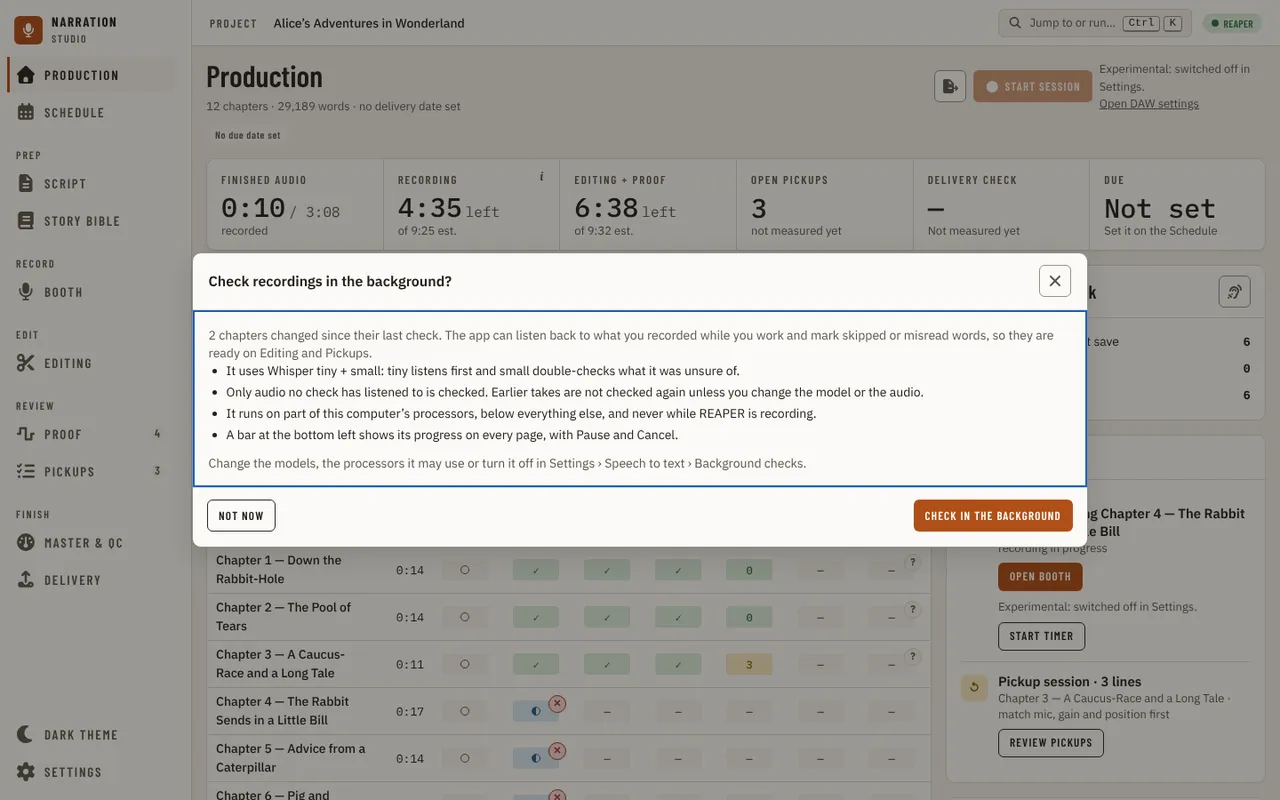
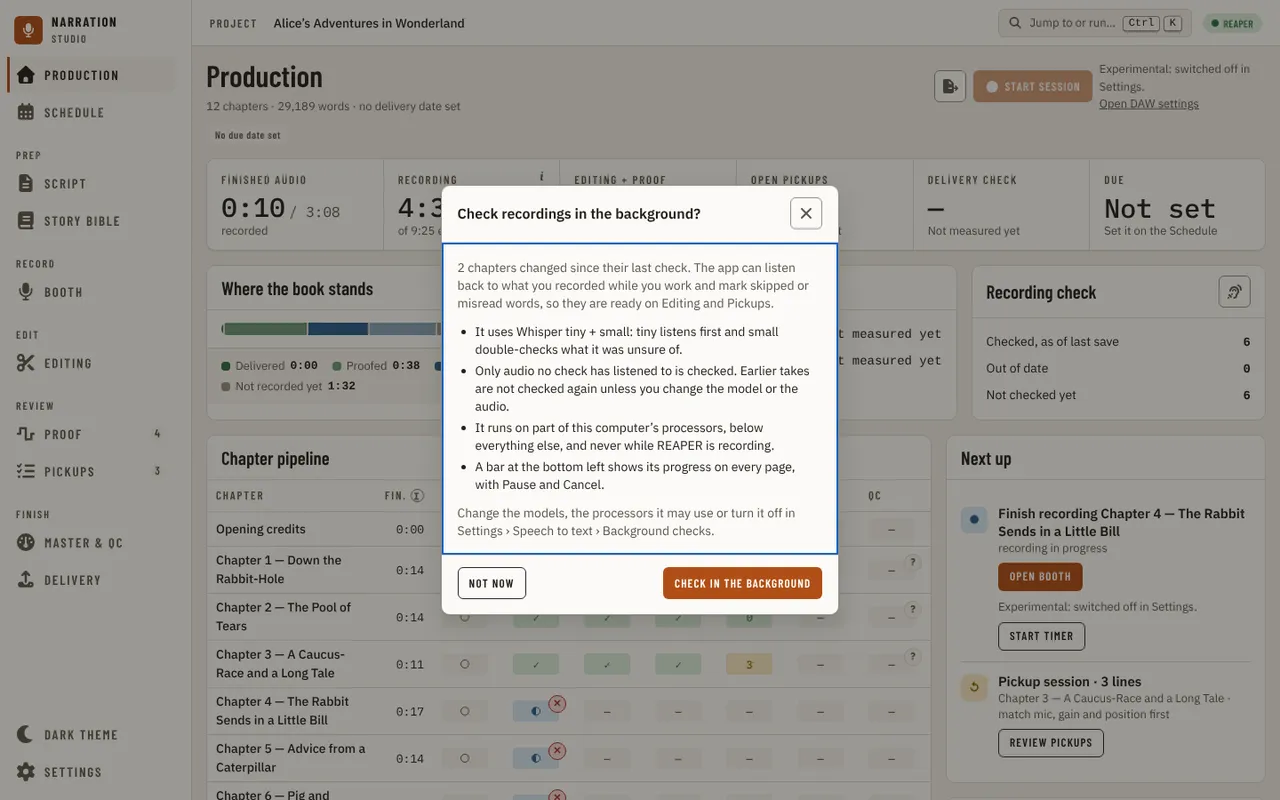
fix(ui): dialogs take a width from one scale, one inset and a wrapping action row (#2355)

Changed region(s): [[0.125, 0.2188, 0.875, 0.7812]]

diff --git a/src/studio/ui/src/components/primitives/Dialog.tsx b/src/studio/ui/src/components/primitives/Dialog.tsx
@@ -23,11 +23,15 @@ type DialogProps = {
   // false: Escape is ignored even though there is an `onClose`. For a dialog whose close would abort work in flight (a
   // running download): the header button and Cancel are the deliberate ways out, a stray key is not.
   escapeCloses?: boolean;
-  // 'default': capped at 70vw wide and 80dvh tall, sized to its content. 'full': fills the viewport with a
-  // fixed 1rem margin on every side and scrolls its body, for a surface that needs the whole window (the teleprompter
-  // reading modal). Modality (focus trap, Escape, initial focus,
-  // hidden siblings) is unchanged by size: both variants are the one shell docs/design/design-system.md#base-ui-wrappers describes.
-  size?: 'default' | 'full';
+  // The width, from one scale (DIALOG_WIDTHS), never wider than the window less 1rem a side, and at most 80dvh tall: 'confirm' (a question
+  // and its answers, the default for an alert), 'form' (a few fields, the default otherwise), 'palette' (the jump menu), 'wide' (a table
+  // or a list of rows with controls). 'full' fills the viewport with a fixed 1rem margin on every side and scrolls its body, for a surface
+  // that needs the whole window (the teleprompter reading modal). Modality (focus trap, Escape, initial focus, hidden siblings) is
+  // unchanged by size: every size is the one shell docs/design/design-system.md#base-ui-wrappers describes.
+  size?: DialogSize;
+  // 'top': the popup hangs 12vh from the top of the window instead of centring, so a list that grows or shrinks as the narrator types
+  // (the jump menu) does not move its own field. The default for `palette`.
+  placement?: 'center' | 'top';
   // Draws no header row and no Close button, for a surface whose first row is its own field (the jump menu, D98). The title
   // still names the dialog, visually hidden; Escape closes through `onClose` or `onEscape`. The body has no padding.
   headerless?: boolean;
@@ -41,8 +45,8 @@ type DialogProps = {
   dismissOnOutsidePress: boolean;
   // null when there is nothing to press (a running job that cannot be cancelled): no empty action row is drawn.
   actions: ReactNode;
-  // WorkDialog only ever shows one action at a time - 'between' would strand
-  // it on the left, so it opts into 'end' instead.
+  // 'between': the first action at the left (a Cancel or a secondary way out), the rest at the right; a lone action sits at the right
+  // either way. 'end': every action at the right.
   actionsAlign?: 'between' | 'end';
   // A region between the body and `actions` that never scrolls with it: the read-aloud dialog's
   // control bar, kept visible in every scroll position. Absent, most dialogs draw nothing here. Unlike `actions` it has no padding or alignment opinion of its own - a toolbar lays out its own row.
@@ -59,6 +63,20 @@ type DialogProps = {
   // `aria-describedby` points at, so an alert without a description is refused at the type level.
   | { variant: 'alert'; description: ReactNode }
 );
+
+export type DialogSize = 'confirm' | 'form' | 'palette' | 'wide' | 'full';
+
+// The width scale (alignment audit cause B: every dialog was 70vw, so a one-line confirm was 1,006 px wide at 1440 and 271 px at 390).
+// The popup is `w-full` inside a viewport padded 1rem a side, so a width also never exceeds the window less 2rem.
+export const DIALOG_WIDTHS: Record<Exclude<DialogSize, 'full'>, string> = {
+  confirm: 'max-w-[28rem]',
+  form: 'max-w-[36rem]',
+  palette: 'max-w-[40rem]',
+  wide: 'max-w-[56rem]',
+};
+
+// The one horizontal inset of the header, the body and the action row.
+const INSET = 'px-[var(--space-6)]';
 
 // An empty description (a job message that has not arrived yet) would leave `aria-describedby` pointing at nothing, and an
 // empty `actions` would draw a padded blank row under the body.
@@ -82,7 +100,8 @@ export function Dialog({
   escapeCloses = true,
   description,
   variant = 'dialog',
-  size = 'default',
+  size,
+  placement,
   headerless = false,
   bodyScroll = true,
   dismissOnOutsidePress,
@@ -100,6 +119,8 @@ export function Dialog({
   // What had focus when the dialog mounted: the button that opened it.
   const [opener] = useState(() => (document.activeElement instanceof HTMLElement ? document.activeElement : null));
   const dismiss = escapeCloses ? (onClose ?? onEscape) : undefined;
+  const width = size ?? (variant === 'alert' ? 'confirm' : 'form');
+  const top = (placement ?? (width === 'palette' ? 'top' : 'center')) === 'top';
 
   const initialFocus = () => {
     const focused = document.activeElement;
@@ -144,17 +165,19 @@ export function Dialog({
         {/* forceRender: Base UI leaves out the backdrop of a dialog opened inside another dialog or a SlideOver (a Drawer), which
             left the page undimmed behind a confirm opened from a panel (chapter-track-link-control/06 draws it dimmed). */}
         <Parts.Backdrop data-dialog-backdrop forceRender className="fixed inset-0 z-[var(--z-dialog)] bg-[var(--backdrop)]" />
-        <Parts.Viewport className="fixed inset-0 z-[var(--z-dialog)] flex items-center justify-center p-4">
+        <Parts.Viewport
+          className={`fixed inset-0 z-[var(--z-dialog)] flex justify-center p-4 ${top && width !== 'full' ? 'items-start pt-[12vh]' : 'items-center'}`}
+        >
           <Parts.Popup
             ref={popupRef}
             initialFocus={initialFocus}
             finalFocus={finalFocus}
             className={`flex w-full flex-col overflow-hidden rounded-[var(--radius-card)] border focus:outline-none ${
-              size === 'full' ? 'max-w-[calc(100vw-2rem)]' : 'max-w-[70vw]'
+              width === 'full' ? 'max-w-[calc(100vw-2rem)]' : DIALOG_WIDTHS[width]
             }`}
             style={{
-              height: size === 'full' ? 'calc(100dvh - 2rem)' : undefined,
-              maxHeight: size === 'full' ? 'calc(100dvh - 2rem)' : '80dvh',
+              height: width === 'full' ? 'calc(100dvh - 2rem)' : undefined,
+              maxHeight: width === 'full' ? 'calc(100dvh - 2rem)' : '80dvh',
               background: 'var(--surface)',
               borderColor: 'var(--line-strong)',
               boxShadow: 'var(--shadow-lg)',
@@ -164,7 +187,7 @@ export function Dialog({
             {headerless ? (
               <Parts.Title className="sr-only">{title}</Parts.Title>
             ) : (
-              <div className="flex min-h-[3.75rem] flex-none items-center justify-between gap-3 border-b border-[var(--border)] px-[1.1rem] py-[0.85rem]">
+              <div className={`flex min-h-[3.75rem] flex-none items-center justify-between gap-3 border-b border-[var(--border)] ${INSET} py-[0.85rem]`}>
                 <Parts.Title className="font-semibold">{title}</Parts.Title>
                 {onClose && (
                   <IconButton label="Close" onClick={onClose}>
@@ -177,10 +200,10 @@ export function Dialog({
             <div
               ref={bodyRef}
               tabIndex={bodyScroll ? 0 : undefined}
-              className={`min-h-0 flex-1 overflow-x-hidden ${bodyScroll ? 'overflow-y-auto' : 'flex flex-col overflow-y-hidden'} ${headerless ? '' : 'p-[1.1rem]'} break-words focus-visible:ring-2 focus-visible:ring-[var(--focus)] focus-visible:outline-none focus-visible:ring-inset`}
+              className={`min-h-0 flex-1 overflow-x-hidden ${bodyScroll ? 'overflow-y-auto' : 'flex flex-col overflow-y-hidden'} ${headerless ? '' : `${INSET} py-[var(--space-6)]`} break-words focus-visible:ring-2 focus-visible:ring-[var(--focus)] focus-visible:outline-none focus-visible:ring-inset`}
             >
               {hasContent(description) && (
-                <Parts.Description render={typeof description === 'string' ? <p /> : <div />} className="text-sm text-[var(--text-muted)]">
+                <Parts.Description render={typeof description === 'string' ? <p /> : <div />} className="mb-3 text-sm text-[var(--text-muted)] last:mb-0">
                   {description}
                 </Parts.Description>
               )}
@@ -195,8 +218,9 @@ export function Dialog({
               <div
                 data-dialog-actions
                 // The mocks' action row is 66 px under its divider (12 above a 38 px button, 16 below; the min-height counts the divider). Button is 32 px
-                // so the row keeps the mocks' height and centres the buttons in the 38 px band.
-                className={`flex min-h-[4.1875rem] flex-none items-center gap-2 border-t px-4 pt-3 pb-4 ${actionsAlign === 'between' ? 'justify-between' : 'justify-end'}`}
+                // so the row keeps the mocks' height and centres the buttons in the 38 px band. The actions wrap onto a second line rather than
+                // squeezing their labels, and keep to the right; 'between' pushes the first of several to the left.
+                className={`flex min-h-[4.1875rem] flex-none flex-wrap items-center justify-end gap-2 border-t ${INSET} pt-3 pb-4 ${actionsAlign === 'between' ? '[&>:first-child:not(:only-child)]:mr-auto' : ''}`}
                 style={{ borderColor: 'var(--border)' }}
               >
                 {actions}

diff --git a/src/studio/ui/src/components/primitives/Dialog.test.tsx b/src/studio/ui/src/components/primitives/Dialog.test.tsx
@@ -4,7 +4,7 @@ import userEvent from '@testing-library/user-event';
 import { useState } from 'react';
 import { afterEach, describe, expect, it, vi } from 'vitest';
 import { Button } from './Button';
-import { Dialog } from './Dialog';
+import { Dialog, DIALOG_WIDTHS } from './Dialog';
 import { Popover } from './Popover';
 import { SlideOver } from './SlideOver';
 import { tabInsideTrap } from './tabInsideTrap';
@@ -306,14 +306,15 @@ describe('Dialog is a real modal', () => {
 // `size="full"` fills the viewport with a margin and scrolls its
 // body, with no change to the modal contract that every other size shares.
 describe('Dialog size="full"', () => {
-  it('defaults to the capped, content-sized popup', async () => {
+  it('defaults to the form width, capped at 80dvh tall', async () => {
     render(
       <Dialog dismissOnOutsidePress={false} title="Add note" onClose={() => undefined} actions={<Button variant="primary">Save</Button>}>
         <p>Body</p>
       </Dialog>,
     );
     const dialog = await screen.findByRole('dialog', { name: 'Add note' });
-    expect(dialog.className).toContain('max-w-[70vw]');
+    expect(dialog.className).toContain(DIALOG_WIDTHS.form);
+    expect(dialog.className).not.toContain('70vw');
     expect(dialog.style.maxHeight).toBe('80dvh');
     expect(dialog.style.height).toBe('');
   });
@@ -445,5 +446,72 @@ describe('Dialog body scrolling', () => {
     expect(bodyOf().className).toContain('flex-col');
     expect(bodyOf().className).toContain('overflow-y-hidden');
     expect(bodyOf().hasAttribute('tabindex')).toBe(false);
+  });
+});
+
+// Alignment audit cause B: every dialog was 70vw wide whatever it held, footers had three layouts and sat 1.6 px outside the
+// body's edge, and the jump menu was centred so its field moved as the list changed.
+describe('Dialog widths and action row', () => {
+  it('sizes an alert as a confirm, and takes an explicit size from the scale', async () => {
+    render(
+      <Dialog dismissOnOutsidePress={false} variant="alert" title="Delete entry?" description="It cannot be undone." actions={<Button>Delete</Button>}>
+        {null}
+      </Dialog>,
+    );
+    expect((await screen.findByRole('alertdialog', { name: 'Delete entry?' })).className).toContain(DIALOG_WIDTHS.confirm);
+    cleanup();
+    render(
+      <Dialog dismissOnOutsidePress={false} title="Link chapters" size="wide" actions={null}>
+        <p>Table</p>
+      </Dialog>,
+    );
+    expect((await screen.findByRole('dialog', { name: 'Link chapters' })).className).toContain(DIALOG_WIDTHS.wide);
+    expect(Object.values(DIALOG_WIDTHS)).toEqual(['max-w-[28rem]', 'max-w-[36rem]', 'max-w-[40rem]', 'max-w-[56rem]']);
+  });
+
+  it('hangs a palette from the top and centres every other size', async () => {
+    render(
+      <Dialog dismissOnOutsidePress title="Jump menu" headerless size="palette" onClose={() => undefined} actions={null}>
+        <p>List</p>
+      </Dialog>,
+    );
+    const dialog = await screen.findByRole('dialog', { name: 'Jump menu' });
+    expect(dialog.className).toContain(DIALOG_WIDTHS.palette);
+    expect(dialog.parentElement!.className).toContain('items-start');
+    cleanup();
+    render(
+      <Dialog dismissOnOutsidePress={false} title="Add note" actions={null}>
+        <p>Body</p>
+      </Dialog>,
+    );
+    expect((await screen.findByRole('dialog', { name: 'Add note' })).parentElement!.className).toContain('items-center');
+  });
+
+  it('wraps the action row, keeps a lone action at the right, and insets it like the header and body', async () => {
+    render(
+      <Dialog dismissOnOutsidePress={false} title="Options" onClose={() => undefined} actions={<Button>Close</Button>}>
+        <p>Body</p>
+      </Dialog>,
+    );
+    const dialog = await screen.findByRole('dialog', { name: 'Options' });
+    const row = dialog.querySelector<HTMLElement>('[data-dialog-actions]')!;
+    expect(row.className).toContain('flex-wrap');
+    expect(row.className).toContain('justify-end');
+    expect(row.className).not.toContain('justify-between');
+    // 'between' moves only the first of several actions to the left.
+    expect(row.className).toContain('[&>:first-child:not(:only-child)]:mr-auto');
+    const header = within(dialog).getByText('Options').parentElement!;
+    const body = within(dialog).getByText('Body').parentElement!;
+    for (const part of [row, header, body]) expect(part.className).toContain('px-[var(--space-6)]');
+  });
+
+  it('puts a gap under the description before the content', async () => {
+    render(
+      <Dialog dismissOnOutsidePress={false} title="Sync" description="Chapters become tracks." actions={null}>
+        <p>Body</p>
+      </Dialog>,
+    );
+    const dialog = await screen.findByRole('dialog', { name: 'Sync' });
+    expect(within(dialog).getByText('Chapters become tracks.').className).toContain('mb-3');
   });
 });

diff --git a/src/studio/ui/src/overlay/overlayService.ts b/src/studio/ui/src/overlay/overlayService.ts
@@ -1,4 +1,5 @@
 import type { ReactNode } from 'react';
+import type { DialogSize } from '../components/primitives/Dialog';
 import type { ToastAction, ToastMessage, ToastTone } from '../components/primitives/Toast';
 
 /** What a toast's Undo runs. Structurally the journal's `Result`, so the caller passes `entry.undo` without this folder importing the journal. */
@@ -21,6 +22,8 @@ type DialogSpec =
       title: string;
       /** A dialog without a header row; the title still names it for assistive technology. */
       headerless?: boolean;
+      /** The width from Dialog's scale; `form` when absent. */
+      size?: DialogSize;
       /** Whether a press outside the dialog closes it (issue 1706): true for a reference view or a picker with nothing to lose, false for a form or a confirm. */
       dismissOnOutsidePress: boolean;
       /** Where focus goes on close when the element that had it is gone (a menu item closes as it runs); absent, the page's <main>. */

diff --git a/src/studio/ui/src/overlay/OverlayHost.tsx b/src/studio/ui/src/overlay/OverlayHost.tsx
@@ -29,9 +29,17 @@ function Layer({ entry }: { entry: DialogEntry }) {
         {content}
       </SlideOver>
     );
-  const { title, headerless, dismissOnOutsidePress, returnFocus } = entry.spec;
+  const { title, headerless, size, dismissOnOutsidePress, returnFocus } = entry.spec;
   return (
-    <Dialog title={title} headerless={headerless} dismissOnOutsidePress={dismissOnOutsidePress} returnFocus={returnFocus} onClose={entry.close} actions={null}>
+    <Dialog
+      title={title}
+      headerless={headerless}
+      size={size}
+      dismissOnOutsidePress={dismissOnOutsidePress}
+      returnFocus={returnFocus}
+      onClose={entry.close}
+      actions={null}
+    >
       {content}
     </Dialog>
   );

diff --git a/src/studio/ui/src/components/engine/LinkChaptersDialog.tsx b/src/studio/ui/src/components/engine/LinkChaptersDialog.tsx
@@ -157,6 +157,7 @@ export function LinkChaptersDialog({ chapters, tracks, onClose }: { chapters: Ma
     <Dialog
       dismissOnOutsidePress={false}
       title="Link chapters to REAPER"
+      size="wide"
       onClose={running ? undefined : onClose}
       escapeCloses={!running}
       description="Choose which REAPER track holds each chapter's recording. Every item on a linked track will be stamped with that chapter's identity; nothing is written until you approve."

diff --git a/src/studio/ui/src/components/engine/CreateChapterRegionsDialog.tsx b/src/studio/ui/src/components/engine/CreateChapterRegionsDialog.tsx
@@ -76,6 +76,7 @@ export function CreateChapterRegionsDialog({ tracks, onClose }: { tracks: Track[
     <Dialog
       dismissOnOutsidePress={false}
       title="Create chapter regions"
+      size="wide"
       onClose={creating ? undefined : onClose}
       escapeCloses={!creating}
       description="Plan one REAPER region per chapter with a confirmed track link, plus the opening and closing credits tracks you choose below. Nothing is written until you create them."

diff --git a/src/studio/ui/src/components/proof/AuditionDialog.tsx b/src/studio/ui/src/components/proof/AuditionDialog.tsx
@@ -111,7 +111,7 @@ export function AuditionDialog<T extends AuditionSource>({
   };
 
   return (
-    <Dialog dismissOnOutsidePress={true} title="Audition candidate reads" onClose={onClose} actions={null}>
+    <Dialog dismissOnOutsidePress={true} title="Audition candidate reads" size="wide" onClose={onClose} actions={null}>
       <p className="font-semibold" style={{ color: 'var(--danger-text)' }}>
         Raw source, no FX or edits applied
       </p>

diff --git a/src/studio/ui/src/components/production/ManuscriptImport.tsx b/src/studio/ui/src/components/production/ManuscriptImport.tsx
@@ -290,6 +290,7 @@ export function useManuscriptImport({
         // The Close button in the header drops the job too, so there is no separate Cancel. An alertdialog, as every confirm: Escape cancels, a press on the backdrop does nothing.
         <Dialog
           title={`Import ${importJob.preview.sourceName} · step 2 of 2`}
+          size="wide"
           variant="alert"
           bodyScroll={false}
           dismissOnOutsidePress={false}

diff --git a/src/studio/ui/src/components/settings/DeliveryProfileEditor.tsx b/src/studio/ui/src/components/settings/DeliveryProfileEditor.tsx
@@ -95,6 +95,7 @@ export function DeliveryProfileEditor({
     <Dialog
       dismissOnOutsidePress={false}
       title="Edit profile"
+      size="wide"
       onClose={onCancel}
       description={`${base ? `Based on ${deliveryProfileTitle(base)}. ` : ''}Saving makes revision ${profile.revision + 1}; projects using it are judged again without measuring.`}
       actions={

diff --git a/src/studio/ui/src/components/production/report/openReportDialog.tsx b/src/studio/ui/src/components/production/report/openReportDialog.tsx
@@ -7,6 +7,7 @@ export function openReportDialog(props: Omit<ReportDialogProps, 'onClose'>): () 
     kind: 'dialog',
     dismissOnOutsidePress: true,
     title: 'Export status report',
+    size: 'wide',
     headerless: true,
     render: ({ close }) => <ReportDialog {...props} onClose={close} />,
   });

diff --git a/src/studio/ui/src/components/storybible/suggested/import/openImportDialog.tsx b/src/studio/ui/src/components/storybible/suggested/import/openImportDialog.tsx
@@ -7,6 +7,7 @@ export function openImportDialog(props: Pick<ImportDialogProps, 'onChanged'> = {
     kind: 'dialog',
     dismissOnOutsidePress: false,
     title: 'Import entries',
+    size: 'wide',
     headerless: true,
     render: ({ close }) => <ImportDialog {...props} onClose={close} />,
   });

diff --git a/src/studio/ui/src/components/layout/JumpMenu.tsx b/src/studio/ui/src/components/layout/JumpMenu.tsx
@@ -276,6 +276,7 @@ export function openJumpMenu({ service = overlay, ...props }: JumpMenuOptions): 
     kind: 'dialog',
     title: 'Jump menu',
     headerless: true,
+    size: 'palette',
     dismissOnOutsidePress: true,
     render: ({ close }) => <JumpMenu {...props} close={close} />,
   });
